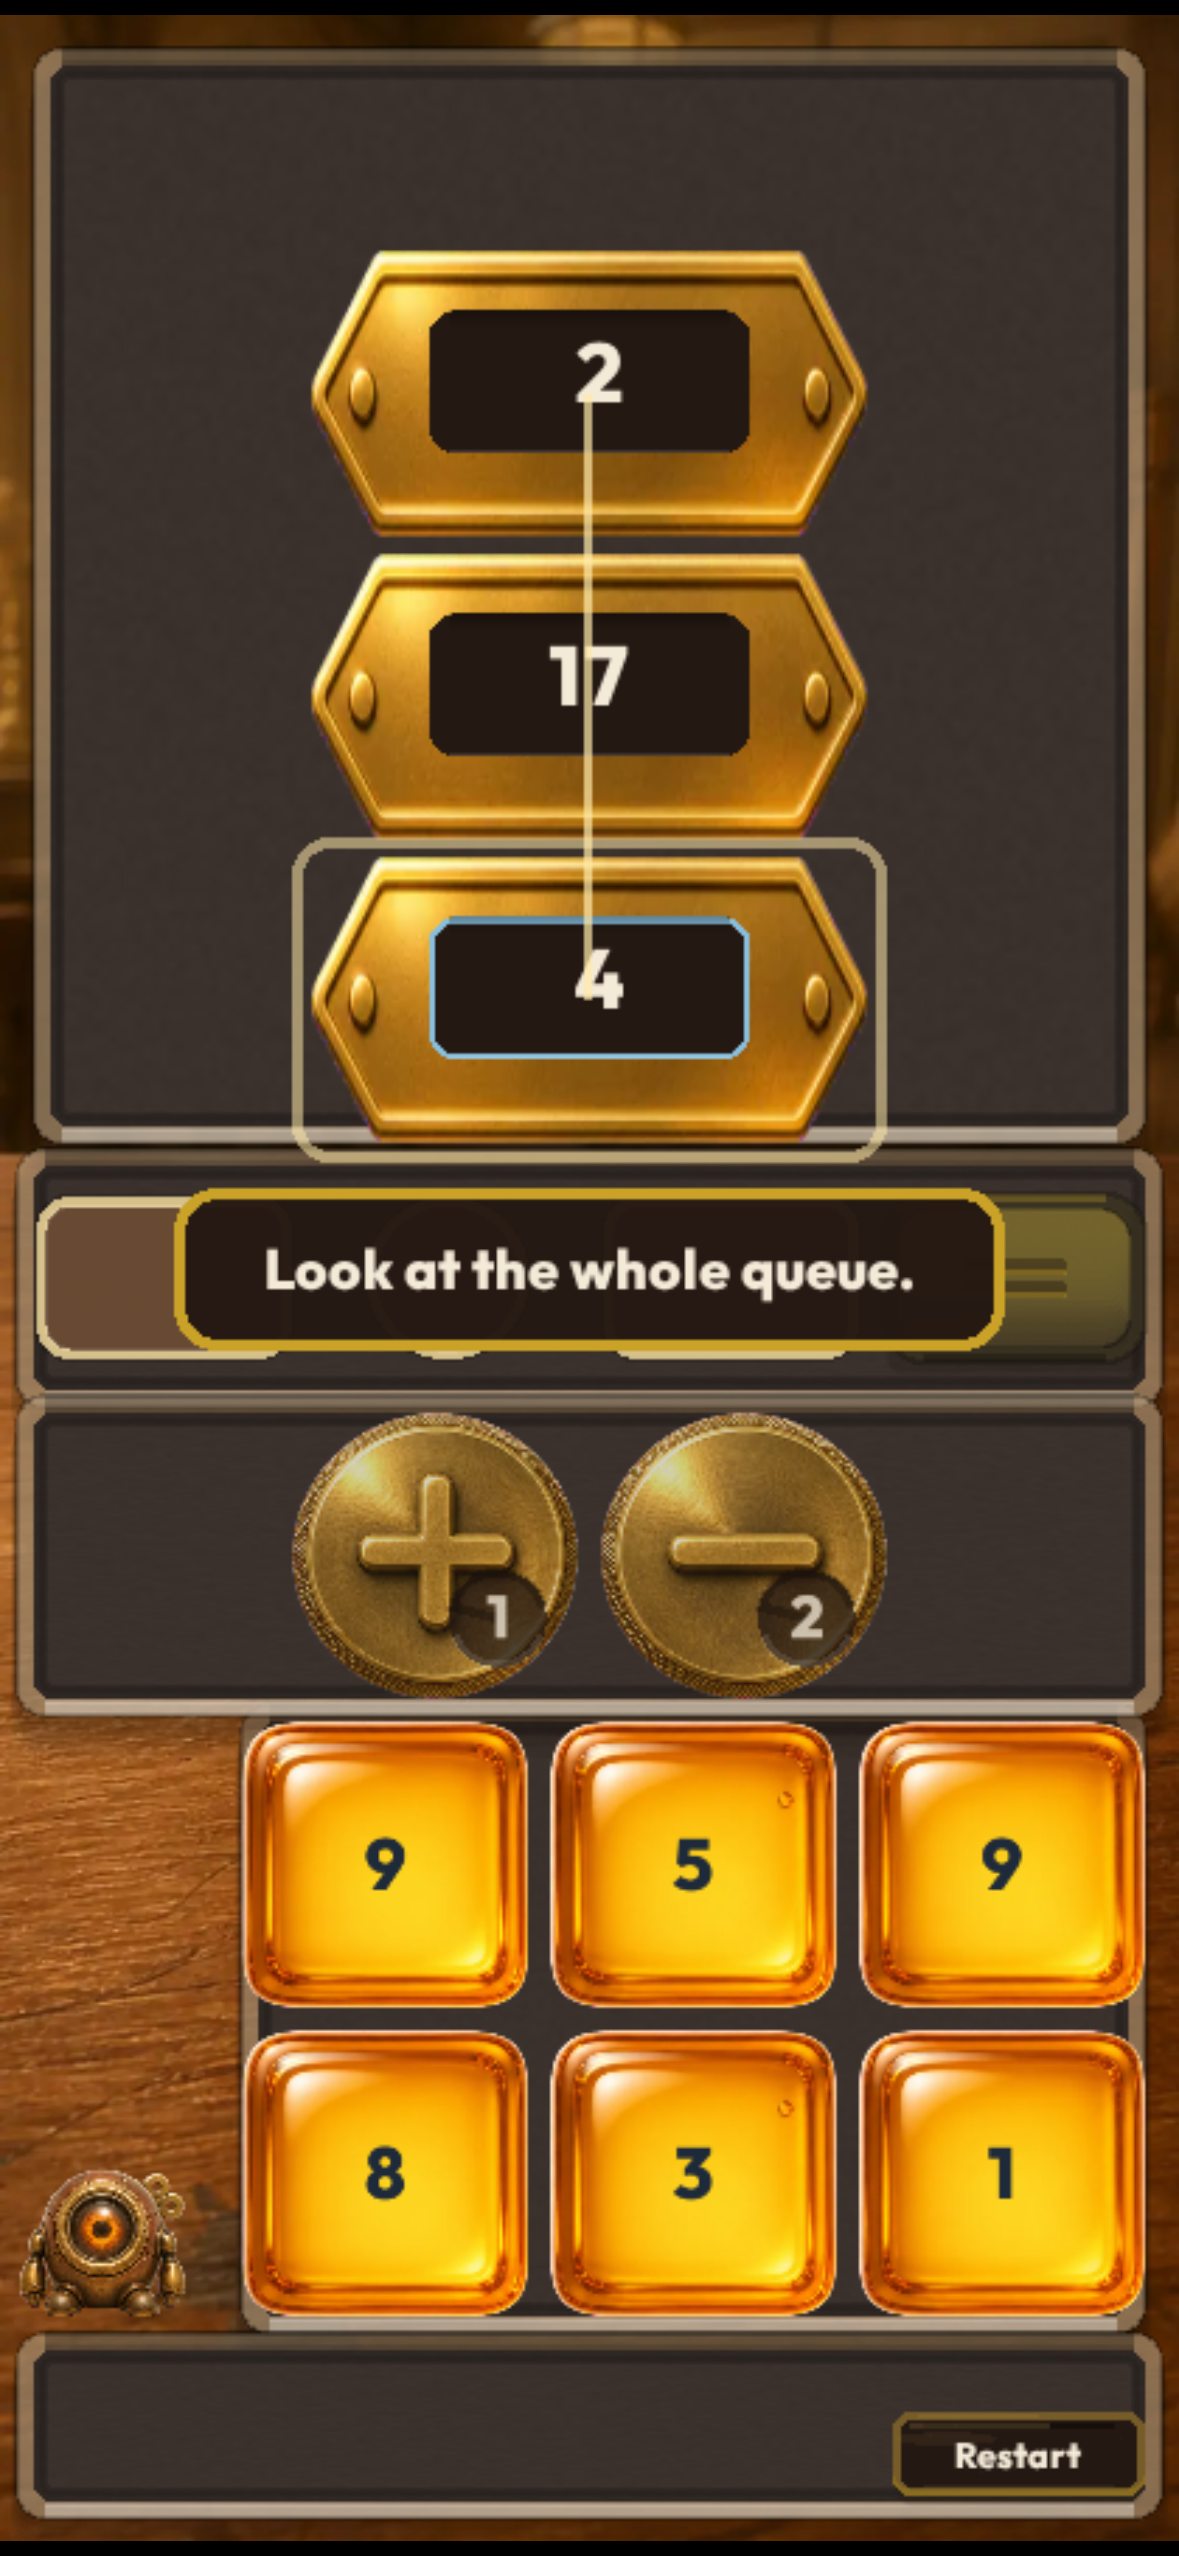
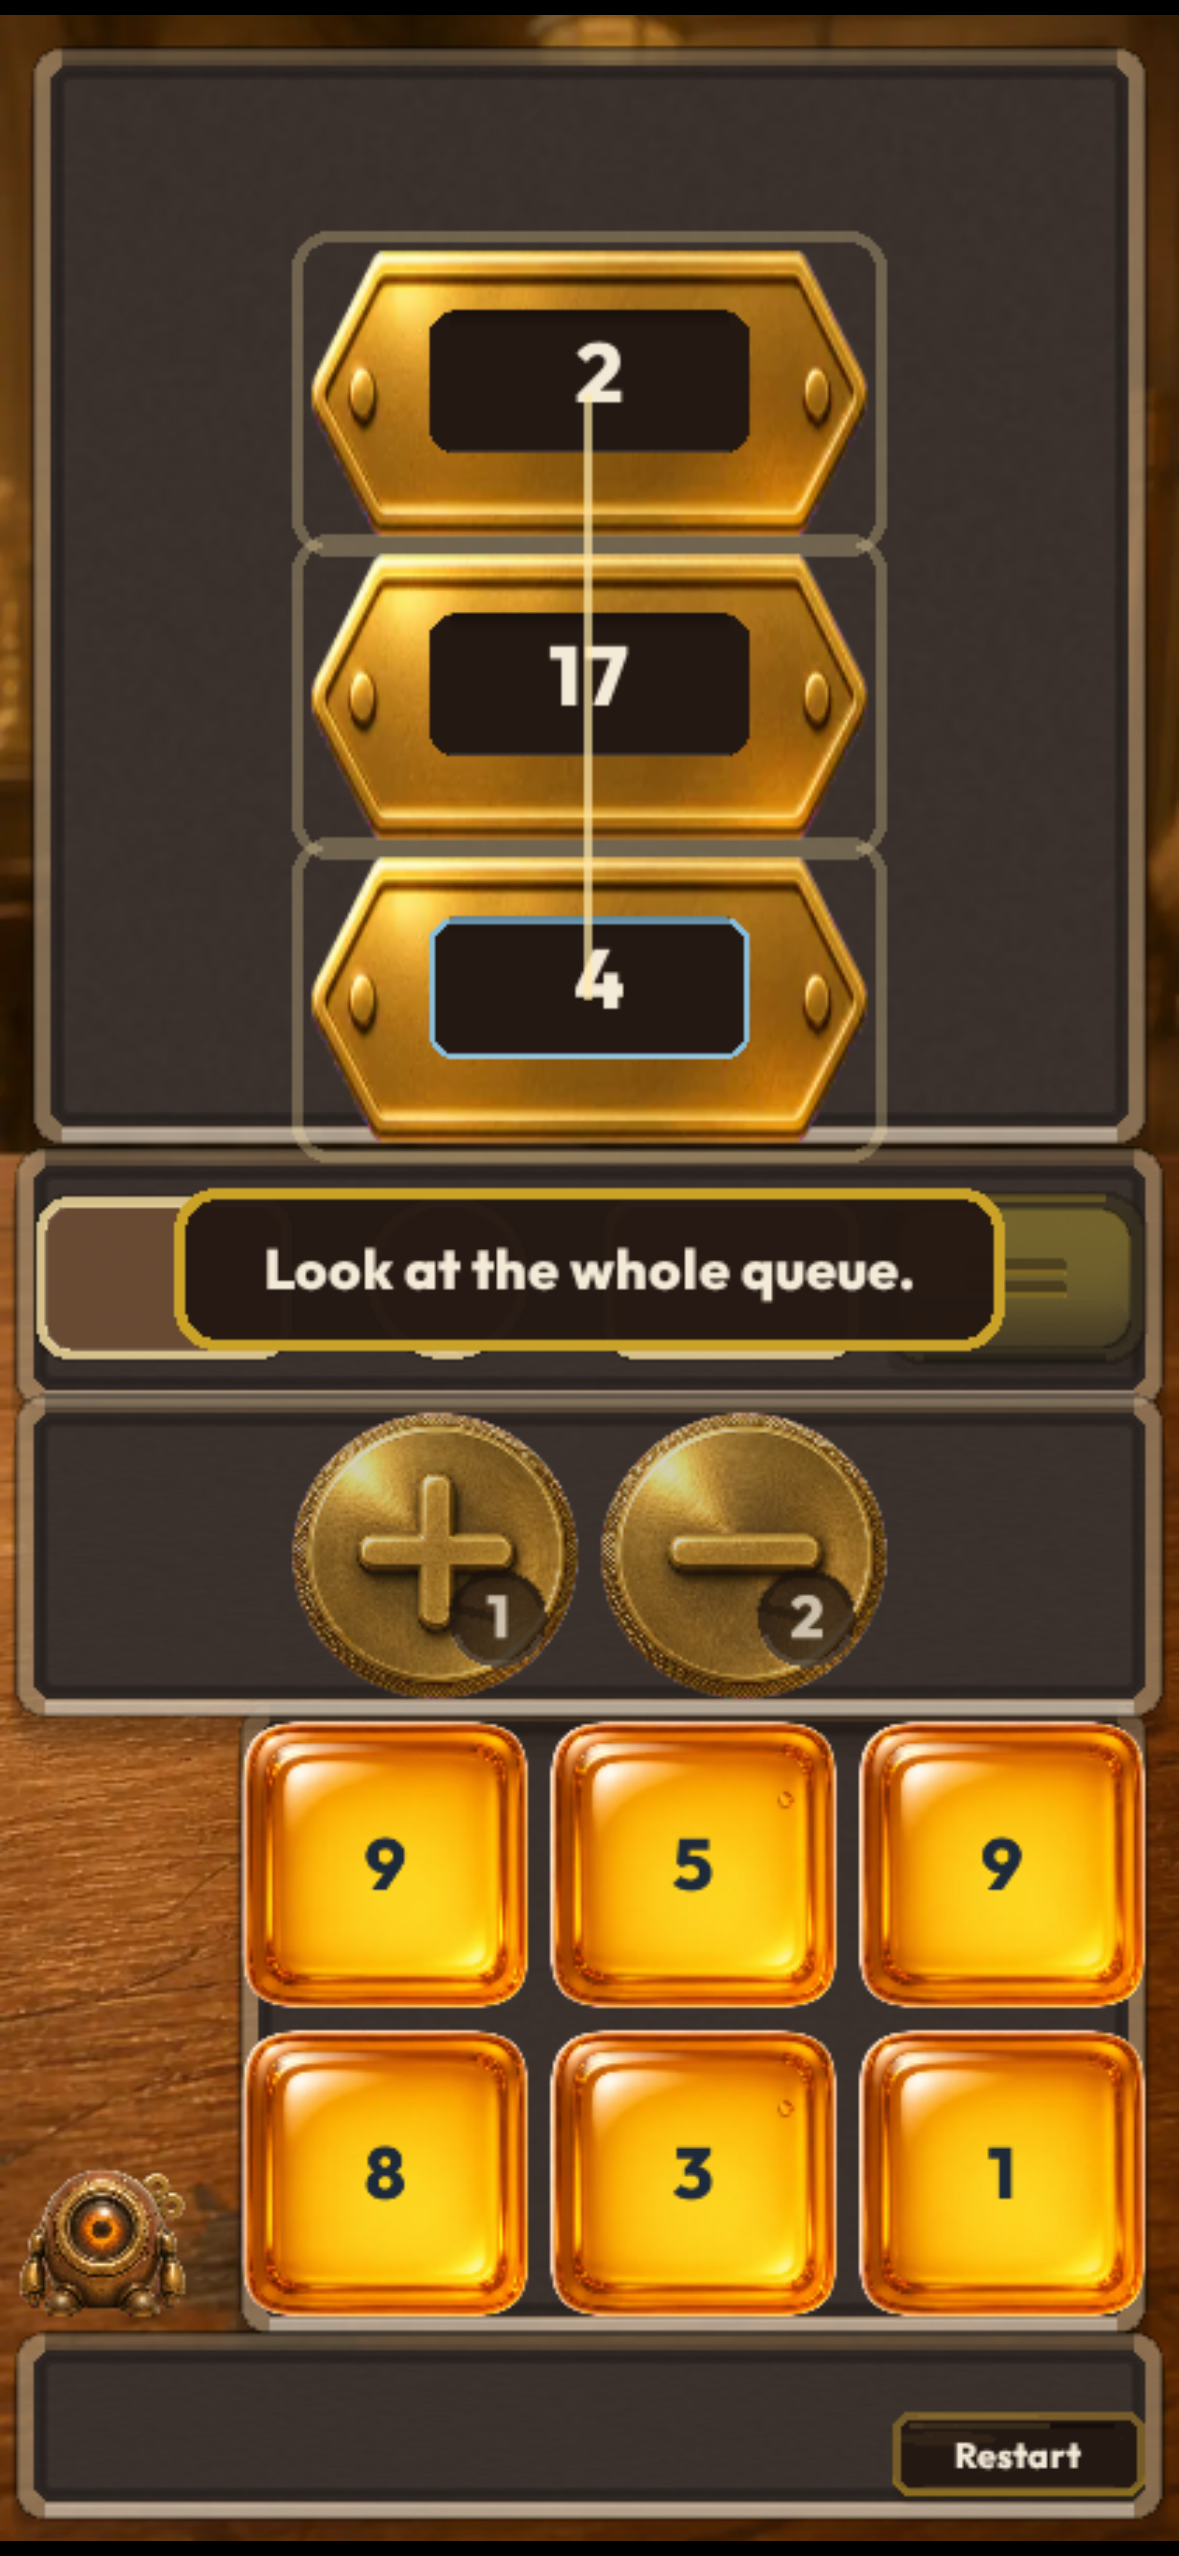
fix(ftue): even soft queue rings after 1-06 look sweep
Settled look beat no longer spotlights front plate alone.

Changed region(s): [[0.2443, 0.0927, 0.7634, 0.4636]]

diff --git a/src/renderer/teach-cue.ts b/src/renderer/teach-cue.ts
@@ -90,7 +90,10 @@ export function queueLookSample(waypoints: readonly Rect[], elapsedMs: number): 
   const handY = from.y + (to.y - from.y) * eased + to.h * 0.42;
   // Fade during the last 18% so the beat ends on "look", not "tap here".
   const handAlpha = progress >= 1 ? 0 : progress > 0.82 ? (1 - progress) / 0.18 : 1;
+  // After the sweep, keep an even soft outline on every plate — never a single
+  // front ring that reads as "tap this".
   const plateAlphas = centers.map((_, i) => {
+    if (progress >= 1) return 0.28;
     const peak = i / segments;
     const dist = Math.abs(progress - peak);
     return Math.max(0, 1 - dist * 2.4) * 0.55;
